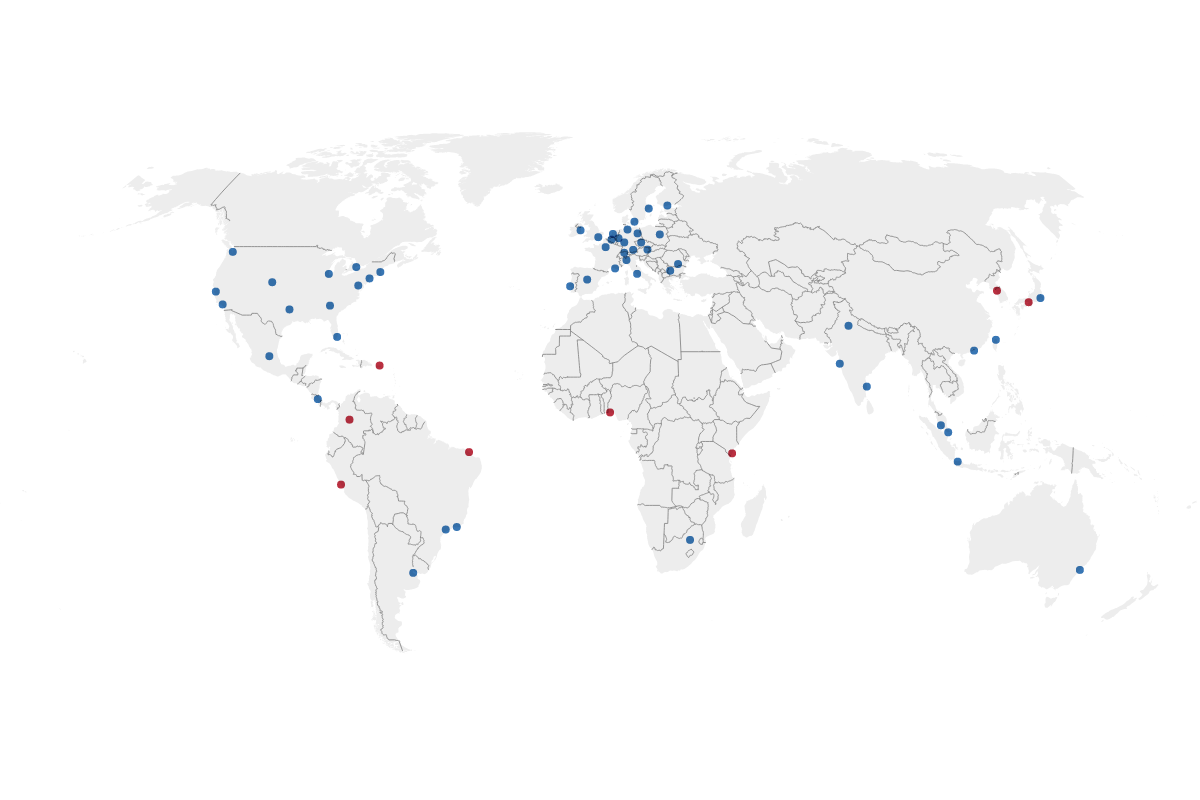
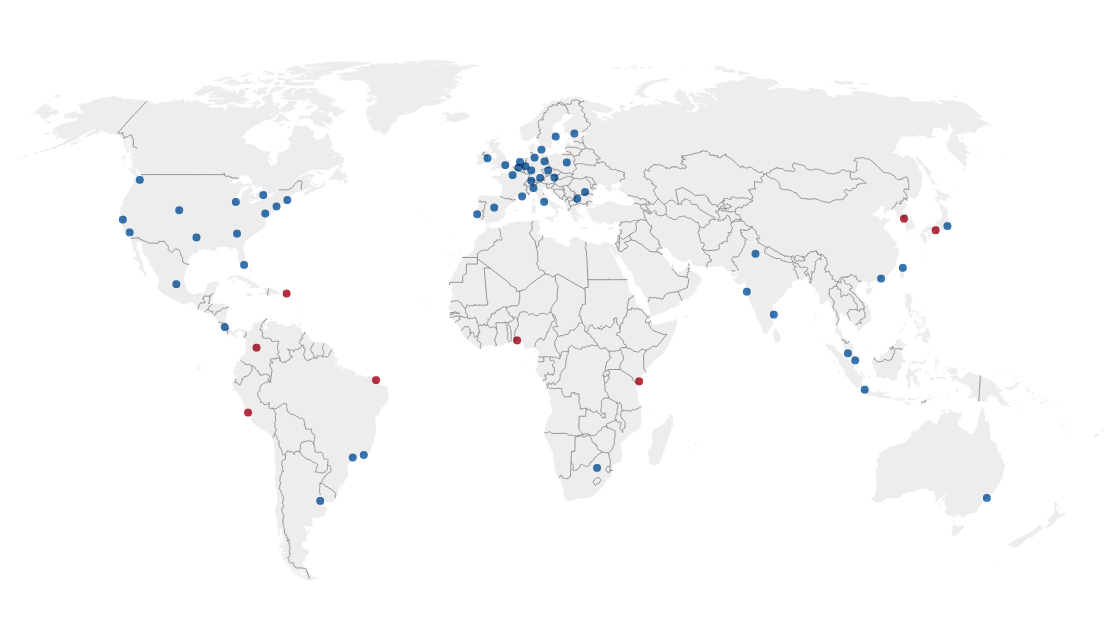
Small fixes to Facebook post.

diff --git a/_posts/2020-02-28-exploring-facebooks-network.md b/_posts/2020-02-28-exploring-facebooks-network.md
@@ -39,7 +39,7 @@ not appear to have any PTR records. These are likely colocated with the peering
 router. Judging by the naming, they are probably simple layer 3 switches.
 
 Lastly, we end up on `edge-star-mini-shv-01-ams4.facebook.com`, which refers to
-the IP we got from Facebook's authoritative DNS server. There's lots of
+the IP we got from Facebook's authoritative DNS server. There are lots of
 interesting bits of information to unpack here, but let's start with "edge". 
 
 ## Server deployment
@@ -58,16 +58,16 @@ possible. For Facebook, this means putting racks of servers close to where they
 peer with ISPs (probably in the same building in many cases). Often, that's in
 or at least very close to a major city and therefore very close to their users.
 My traceroute landed on the very edge of their network, the latency between the
-peering router and server was neglible.
+peering router and server appeared to be neglible.
 
-A presentation[^1] from 2015 illustrates this concept. They call these
-deployments edge POPs (where POP stands for Point of Presence). According to the
-presentation, the benefits are two-fold. One, it allows them to terminate TCP
-and SSL connections much closer to the user, and thereby reduce initial latency.
-Two, they can cache static content, which probably saves an enormous amount of
-money in terms of bandwidth costs. Note that user data is probably not stored on
-the edge. Instead, edge machines will send RPCs to datacenters for that
-information.
+A presentation[^1] from 2015 illustrates this concept. They call a deployment
+like this an "edge POP" (where POP stands for Point of Presence). According to
+the presentation, the benefits are two-fold. One, it allows them to terminate
+TCP and SSL connections much closer to the user, and thereby reduce initial
+latency. Two, they can cache static content, which probably saves an enormous
+amount of money in terms of bandwidth costs. Note that user data is probably not
+stored on the edge. Instead, edge machines will send RPCs to datacenters for
+that information.
 
 I'd like to learn more, but Facebook's DNS servers keep sending me to `ams2` or
 `amt2`, which are probably two different edge POPs (possibly in different
@@ -81,7 +81,8 @@ import ipaddress
 import os
 
 # Get all FB IPv4 subnets.
-WHOIS_CMD = "whois -h whois.radb.net -- '-i origin AS32934' | grep 'route:' | awk '{print $2}'"
+WHOIS_CMD = ("whois -h whois.radb.net -- '-i origin AS32934' | grep 'route:' | "
+	     "awk '{print $2}'")
 
 # Do a reverse DNS lookup on the address.
 REVERSE_DNS_FORMAT = "dig -x %s +short"
@@ -105,7 +106,7 @@ This gave me a nice list of names to peruse (I've put the results in a
 gist[^2]). There are a lot of really interesting names in here.
 
 Since I skipped IPv6, I may be missing entire parts of Facebook's network. I
-consider this is unlikely, though.
+consider this is unlikely.
 
 ## Datacenters
 
@@ -119,7 +120,7 @@ In the list, I can find many names of the form `dr01.prn2.tfbnw.net` or
 datacenter router. The three-letter location strings do not appear to be airport
 codes in this case. Grepping for unique values, we get the following list. I've
 mapped some of them to datacenters using guesswork and ping (no promises on
-accuracy), a few are still a mystery to me.
+accuracy); a few are still a mystery to me.
 
 ```
 ash    (eastern US)
@@ -161,20 +162,21 @@ under increased load at the remaining locations.
 
 So why not build more datacenters outside the US? After all, this would probably
 improve latency for huge numbers of users. It would also reduce backbone
-bandwidth and/or transit costs. My guess is that the reasons not to are due to
-risk. A datacenter is an enormous investment, you don't want to build one in a
-country only to have the local government or energy supplier renege on your deal
-and threaten your investment. That said, Facebook is building a new datacenter
-in Singapore, so the latency and bandwidth benefits must be worthwhile. Clearly
-Singapore was the most viable location in south east Asia, having the right
-combination of political stability, infrastructure and operating costs.
+bandwidth and/or transit costs. My guess is that the reason Facebook has largely
+neglected to do this is due to risk. A datacenter is an enormous investment, you
+don't want to build one in a country only to have the local government or energy
+supplier renege on your deal and threaten your investment. That said, Facebook
+is building a new datacenter in Singapore, so the latency and bandwidth benefits
+must be worthwhile. Clearly Singapore was the most viable location in south east
+Asia, having the right combination of political stability, infrastructure and
+operating costs.
 
 There's a few more interesting things to note here. One is that there appear to
 be four `dr` devices at most datacenters, with a few exceptions (SNC only has
 two while ASH has eight, and ATN has a dangling `dr08.atn1`). Referring back to
-the presentation[^1], it appears that `shv` refers to Shiv, their L4 load
-balancer. I'm going to assume that the presence of such a name is a good
-indication of whether they serve user traffic in a location.
+the presentation[^1] and our original traceroute, it appears that `shv` refers
+to Shiv, their L4 load balancer. I'm going to assume that the presence of such a
+name is a good indication of whether they serve user traffic in a location.
 
 ```
 headers-shv-00-rprn0.facebook.com.
@@ -200,13 +202,14 @@ or that the name doesn't exist.
 ## The edge
 
 So what does the edge look like? Coming back to the original traceroute, it
-looks like I can search for peering routers and names of the form
+looks like I can search for peering routers (`pr**`) and names of the form
 `edge-star-mini-shv-[POP].facebook.com`. It turns out the peering router and
 edge Shiv locations largely overlap, while there is no overlap with the
-datacenter locations. Some of the Shiv POP names are weird, for example "amt" is
-not used as an airport code but appears to refer to Amsterdam. I've plotted the
-non-weird ones on a map (again, no promises on accuracy!). From it, we can get a
-good idea of Facebook's network topology.
+datacenter locations. Some of the Shiv POP names are weird. For example AMT is
+not used as an airport code but appears to refer to Amsterdam (why not use AMS
+with a different number?). I've plotted the non-weird ones on a map (again, no
+promises on accuracy!). From it, we can get a good idea of Facebook's network
+topology.
 
 ![Facebook edge locations]({{ site.url }}/assets/facebook-edge-locations.png){:width="100%"}
 
@@ -225,19 +228,19 @@ looked like our traceroute went through 3 layers: `asw`, `psw` and an unnamed
 layer which we might assume to be a top of rack switch. Examining further, the
 `asw` layer only exists in a handful of locations; presumably those split across
 multiple colocs. And it seems like every coloc has four `psw` switches that make
-up the fabric. These switches appear to be connected to every rack in the coloc,
-in addition to the peering routers and backbone (in the absense of an `asw`
-layer). 
+up the fabric (`psw` probably stands for spine switch). These switches are
+likely to be connected to every rack in the coloc, in addition to the peering
+routers and backbone (in the absense of an `asw` layer). 
 
 Can we guess how big an edge POP is? One proxy might be to look at the second
 (or third, in the AMS case) layer of routing. These IPs don't have PTR records,
-but we can count them anyway. Assuming a full mesh and ECMP routing across the
-racks, I count 102 for `ams4` and 114 for `amt2`. If these IPs do indeed
-correspond to top of rack switches, that number seems very high. Does Facebook
-really have on the order of hundreds of racks in Amsterdam? For comparison, New
-York has 96, Seattle 128, Boston 29 and in Lagos I get 33. Those proportions
-seem a bit skewed, especially considering that Europe has more edge POPs that
-are also closer together.
+but we can send a lot of traceroutes and count them anyway. Assuming a full mesh
+and ECMP routing across the racks, I count 102 for `ams4` and 114 for `amt2`. If
+these IPs do indeed correspond to top of rack switches, that number seems very
+high. Does Facebook really have on the order of hundreds of racks in Amsterdam?
+For comparison, New York has 96, Seattle 128, Boston 29 and in Lagos I get 33.
+Those proportions seem a bit skewed, especially considering that Europe has more
+edge POPs which are also closer together. Perhaps my assumptions are incorrect.
 
 Another thing I'm really interested in is how edge POPs connect to the
 datacenters. How does that work?
@@ -245,16 +248,17 @@ datacenters. How does that work?
 ## The backbone
 
 Facebook hosts an enormous amount of user data, which will be replicated across
-several datacenters. This necessitates a lot of data transfer between
-datacenters. To allow this, Facebook's datacenters will be connected by a
-backbone. According to an article[^5] from 2017, they actually have two: an
+several datacenters to avoid data loss. This necessitates a lot of data transfer
+between datacenters. To allow this, Facebook's datacenters will be connected by
+a backbone. According to an article[^5] from 2017, they actually have two: an
 express backbone designed for inter-datacenter traffic, and an older classic
 backbone which is used for egress traffic. These backbones will extend to the
 edge where possible, so that RPCs don't need to leave Facebook's network.
 
 Similar to before, we can find many names of the form `ae43.bb01.ams2.tfbnw.net`
-or `bb01.ams2.tfbnw.net`. The numbers after the `bb` range from 0 to 1 or 0 to 3
-depending on the location, suggesting the routers are deployed in pairs.
+or `bb01.ams2.tfbnw.net`, where `bb` almost certainly refers to a backbone
+router. The two digit numeric suffix ranges from 0 to 1 or 0 to 3 depending on
+the location, suggesting the routers are deployed in pairs.
 
 The `ae` plus number prefix is interesting. I don't see an immediate pattern to
 the numbering, but perhaps this has to do with their express backbone and its
@@ -298,7 +302,7 @@ border
 router](https://en.wikipedia.org/wiki/Open_Shortest_Path_First#Router_types)?).
 Then we ride the backbone to London and from there directly to Lagos (undersea
 cable). Lagos only appears to have `br` devices, but they seem to cleanly take
-the role of `bb` devices in other metros. Perhaps it is not necessary to have a
+the role of `bb` devices in other POPs. Perhaps it is not necessary to have a
 router here with a full internet routing table. After hitting the `br` device,
 we pass through the edge fabric until we reach a machine.
 
@@ -316,8 +320,12 @@ Compare to a similar traceroute from a VPS in Toronto.
 12  edge-star-mini-shv-01-los2.facebook.com (157.240.29.35)  180.421 ms
 ```
 
-In this case we ingressed in Toronto but didn't appear to hit a peering router. My
-best guess is that this is an Internet Exchange Point, 
+In this case we ingressed in Toronto but didn't appear to hit a peering router.
+This appears to be a different peering setup, which might explain why I didn't
+find any `pr` devices in a handful of edge POPs. How does that work? How is an
+`ar` device different from a `pr`? It appears to be connected directly to peers
+in Toronto, but also the backbone routers in New York. I can find `pr` devices
+in Toronto, but no `bb` or `br` devices. It seems like a strange setup.
 
 Interestingly, a traceroute from Toronto to Amsterdam only ingresses in
 Amsterdam.
@@ -344,25 +352,26 @@ One thing that really strikes me is the relative lack of presence outside the US
 and Europe. However, according to this source[^6], the majority of Facebook
 users are outside these areas. India has 50% more users than the US, but get by
 with only 3 edge locations! And uncacheable content like your personal and
-friend activity is almost certainly stored in a datacenter in the US or Europe.
-Half of the countries on this list don't appear to have any edge presence at
-all.
+friend activity is almost certainly served from a datacenter in the US or
+Europe. Half of the countries on this list don't appear to have any edge
+presence at all.
 
-It's strange to me that there's edge presence in BRU when there are five
+It's strange to me that there's edge presence in BRU when there are five other
 locations within a radius of a few hundred kilometers (AMS, DUS, FRA, CDG, and
-LHR), with very reliable networks in between. On the other hand, the Philippines
+LHR) with very reliable networks in between. On the other hand, the Philippines
 is probably served out of Hong Kong which is at least 1300 km away, while having
 7 times more Facebook users than the entire population of Belgium!
 
-This must come down to dollars, and I'm sure Facebook has a lot of data showing
-that lower latencies correspond to increased advertising revenue. And how much
+This must come down to dollars. I'm sure Facebook has a lot of data showing that
+lower latencies correspond to increased advertising revenue. And how much
 revenue probably varies widely depending on geography (as estimated by this
-article[^7]).
+article[^7]), meaning that an edge location in Belgium probably has better
+ROI than one in the Philippines.
 
 ### References
 
 [^1]: [A look inside Facebook's Networking Infrastructure](https://www.cs.unc.edu/xcms/wpfiles/50th-symp/Moorthy.pdf)
-[^2]: [https://gist.github.com/avanpo/5fdb11a8710dba09687a190d39d14510](https://gist.github.com/avanpo/5fdb11a8710dba09687a190d39d14510)
+[^2]: [Facebook PTR records](https://gist.github.com/avanpo/5fdb11a8710dba09687a190d39d14510)
 [^3]: [Facebook data center locations](https://baxtel.com/data-centers/facebook#datacenter-map)
 [^4]: [Facebook's US$1b data centre in Singapore to open in 2022](https://www.edb.gov.sg/en/news-and-events/insights/innovation/facebook-s-us-1b-data-centre-in-singapore-to-open-in-2022.html)
 [^5]: [Building Express Backbone: Facebook's new long-haul network](https://engineering.fb.com/data-center-engineering/building-express-backbone-facebook-s-new-long-haul-network/)
